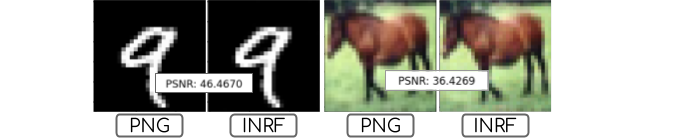
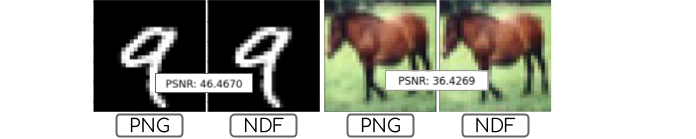
cleaning up assets

Changed region(s): [[0.6638, 0.8345, 0.7543, 0.9496], [0.3319, 0.8345, 0.4224, 0.9496]]

diff --git a/neural_data_format/serialize.py b/neural_data_format/serialize.py
@@ -17,8 +17,12 @@ def compare_generated_images(x, model, z, debug=False):
     if debug:
         _, axes = plt.subplots(1, 2)
         print (x.shape, gen_data.shape, x.min(), x.max(), gen_data.min(), gen_data.max())
-        axes[0].imshow(x)
-        axes[1].imshow(gen_data)
+        if c == 1:
+            axes[0].imshow(x, cmap='gray')
+            axes[1].imshow(gen_data, cmap='gray')
+        else:
+            axes[0].imshow(x)
+            axes[1].imshow(gen_data)
         plt.suptitle(f'PSNR: {quality:.4f}')
         plt.show()
     return quality
@@ -38,22 +42,33 @@ def load(path, map_location='cpu'):
 def func(x, loss, model_params, device, debug=False):
     assert x.ndim == 3
     c, h, w = x.shape
-
+    device = 'cpu'
     model = INRF2D(device=device, latent_dim=64)
     model.c_dim = c
     model.init_map_fn(**model_params)
+
     _, _, loss, latent = model.fit(
         target=x,
         n_iters=100,
         test_resolution=(h,w,c),
         loss=loss,
-        trainable_latent=True,)
-    
-    quality = compare_generated_images(x, model, latent, debug=debug)
-    state = {k: v.cpu() for k, v in model.map_fn.state_dict().items()}
-    for k, v in latent.values():
+        trainable_latent=True,
+    )
+    #model.device = 'cpu'
+    #model.map_fn = model.map_fn.cpu()
+    for k, v in latent.items():
         if isinstance(v, torch.Tensor):
             latent[k] = v.cpu()
+
+    #model.map_fn = torch.quantization.quantize_dynamic(
+    #    model.map_fn,
+    #    {torch.nn.Linear},
+    #    dtype=torch.qint8
+    #)
+    print (model.map_fn)
+    quality = compare_generated_images(x, model, latent, debug=debug)
+    state = {k: v.cpu() for k, v in model.map_fn.state_dict().items()}
+
     return state, latent, quality
 
 
@@ -69,7 +84,7 @@ def convert_torch_dataset(dataset, loss, model_params, device, save_dir, debug=F
         latents = [s[1] for s in states]
         quality = [s[2] for s in states]
 
-        ndf_data = [{'state': t.cpu(), 'label': y, 'latent': z} for t, y, z in zip(ndf, labels, latents)]
+        ndf_data = [{'state': t, 'label': y, 'latent': z} for t, y, z in zip(ndf, labels, latents)]
         for data in ndf_data:
             torch.save(data, os.path.join(save_dir, f'{i}.ndf'.zfill(7)))
             i += 1

diff --git a/neural_data_format/neural_mnist.py b/neural_data_format/neural_mnist.py
@@ -25,7 +25,7 @@ train_loader_img = torch.utils.data.DataLoader(dataset_train, batch_size=4, num_
 test_loader_img = torch.utils.data.DataLoader(dataset_test, batch_size=4, num_workers=2)
 
 root_dir = 'ndf_datasets/mnist'
-loss = LossModule(l2_alpha=1.0, device='cpu')
+loss = LossModule(l2_alpha=1.0, device=device)
 model_params = {
     'graph_topology':'siren',#'conv',
     'input_encoding_dim': 1,#48,
@@ -43,7 +43,7 @@ psnr_train = convert_torch_dataset(
     model_params=model_params,
     device=device,
     save_dir=os.path.join(root_dir, 'train'),
-    debug=False)
+    debug=True)
 #
 # Create test set (NDF)
 psnr_test = convert_torch_dataset(
@@ -62,7 +62,6 @@ inrf.c_dim = 1
 inrf.init_map_fn(**model_params)
 
 batch = next(iter(train_loader_img))[0]
-inrf.init_map_fn(**inrf_params)
 
 dataset_train_ndf = DiscreteDataset(
     os.path.join(root_dir, 'train'),

diff --git a/neural_data_format/neural_cifar.py b/neural_data_format/neural_cifar.py
@@ -42,14 +42,14 @@ model_params = {
 }
 
 # Create training set (NDF)
-"""
+
 psnr_train = convert_torch_dataset(
     train_loader_img,
     loss=loss,
     model_params=model_params,
     device=device,
     save_dir=os.path.join(root_dir, 'train'),
-    debug=False)
+    debug=True)
 
 # Create test set (NDF)
 psnr_test = convert_torch_dataset(
@@ -61,7 +61,7 @@ psnr_test = convert_torch_dataset(
     
 print (f'Mean PSNR Train: {psnr_train}')
 print (f'Mean PSNR Test: {psnr_test}')
-"""
+
 # load back data
 inrf = INRF2D(device='cpu', latent_dim=64)
 inrf.c_dim = 3
